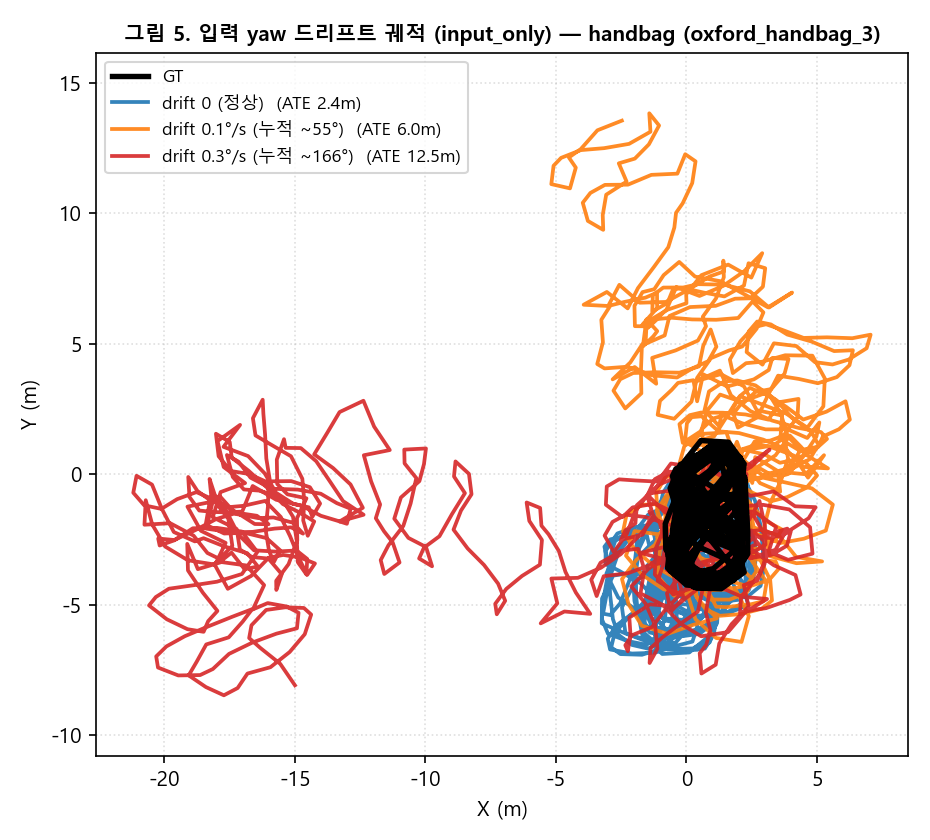
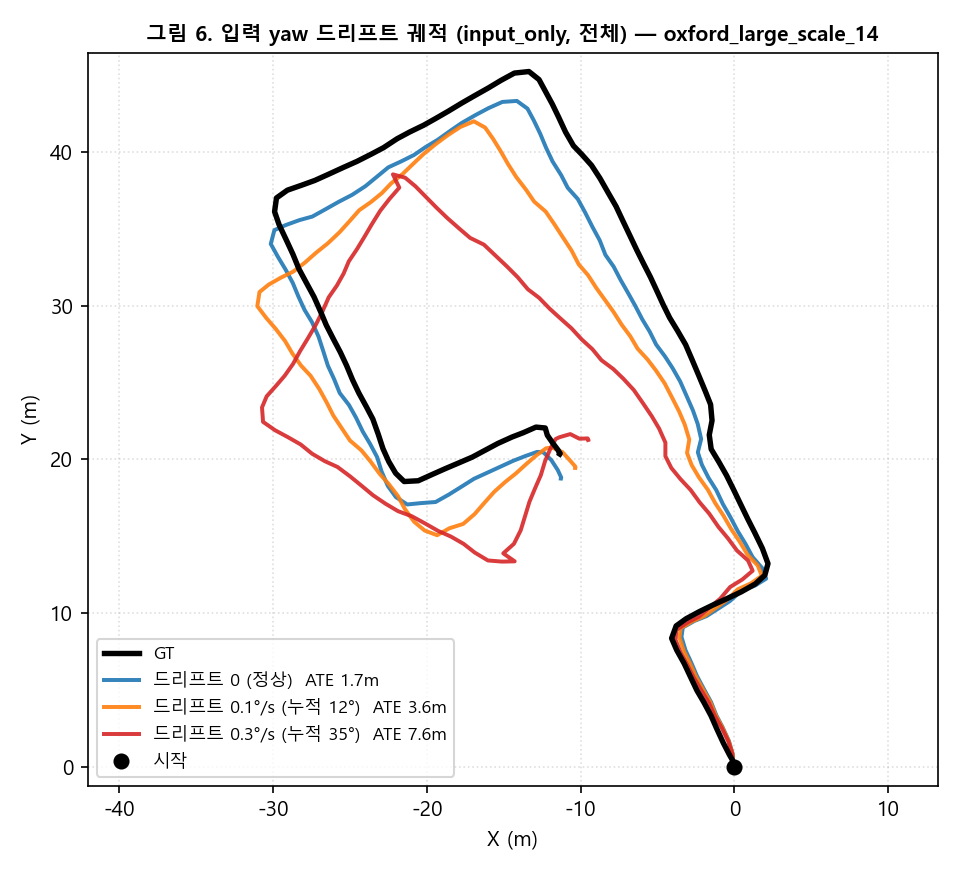
P83h: redesign fig6 drift trajectory — large_scale_14 open path (readable)
기존 handbag_3(루프형 GT 블롭)+내부제목 오류(그림5) -> large_scale_14 개방경로,
제목 그림6 교정. input_only full: ATE 1.7->3.6->7.6m, 누적 12/35deg.
(첫30초 한사이클은 input drift 효과 소멸 확인 -> 전체+개방경로로 해결)

diff --git a/doc/paper_fig/oxiod_drift_traj_fig6.py b/doc/paper_fig/oxiod_drift_traj_fig6.py
@@ -1,0 +1,98 @@
+# -*- coding: utf-8 -*-
+"""그림 6 재설계 — 입력 yaw 드리프트 궤적을 §4.4/그림7 스타일(첫 N초·한 사이클)로.
+기존(handbag_3 전체, GT 블롭)이 루프형이라 가독성 낮음 → handheld_1 첫 30초(한 사이클)로.
+input_only(출력은 정답 yaw0): 입력 정렬 yaw에만 드리프트 → 예측 방향 붕괴가 궤적으로 가시화.
+
+실행:
+  KMP_DUPLICATE_LIB_OK=TRUE python src/Network/oxiod_drift_traj_fig6.py \
+    --data_dir D:/EKF_DATASET/TLIO_Oxford_Dataset --model_dir src/Network/out_classifier2 \
+    --seq oxford_handheld_1 --sec 30 --rates 0,2,5
+"""
+from __future__ import annotations
+import argparse, sys
+from pathlib import Path
+import numpy as np, matplotlib
+matplotlib.use("Agg")
+import matplotlib.pyplot as plt
+from matplotlib import font_manager
+try:
+    sys.stdout.reconfigure(encoding="utf-8", errors="replace")  # type: ignore
+except Exception:
+    pass
+for fn in ("Malgun Gothic", "맑은 고딕", "Gulim"):
+    try:
+        font_manager.findfont(fn, fallback_to_default=False); plt.rcParams["font.family"] = fn; break
+    except Exception:
+        continue
+plt.rcParams["axes.unicode_minus"] = False
+sys.path.insert(0, str(Path(__file__).parent))
+from offline_eval import WINDOW_LEN, FS, load_oxiod, load_model, window_to_gravity_aligned, window_yaw0  # type: ignore
+from oxiod_yaw_drift_ablation import make_drifted_quat  # type: ignore
+LOG = Path(r"D:\mobile\imu_android\logs")
+
+
+def dr_seg(net, data, mean, std, dr, S):
+    import torch
+    acc, gyr, quat, pos = data["acc"], data["gyr"], data["quat"], data["pos"]
+    quat_in = make_drifted_quat(quat, dr)        # 입력만 드리프트
+    T = len(acc); starts = list(range(0, T - WINDOW_LEN, WINDOW_LEN))
+    pred = [np.zeros(2)]
+    with torch.no_grad():
+        for s in starts:
+            e = s + WINDOW_LEN
+            imu = window_to_gravity_aligned(acc, gyr, quat_in, s, e, frame="ga")
+            x = torch.from_numpy(((imu - mean) / std).T.copy()).float().unsqueeze(0)
+            y, _c, _l = net(x); d = y[0].numpy()
+            y0 = window_yaw0(quat, s)             # 출력은 정답 yaw0
+            c, sn = np.cos(y0), np.sin(y0)
+            pred.append(pred[-1] + np.array([c * d[0] - sn * d[1], sn * d[0] + c * d[1]]))
+    pred = np.array(pred)
+    idx = [0] + [s + WINDOW_LEN for s in starts]
+    gt = pos[idx, :2] - pos[0, :2]
+    keep = [k for k, ix in enumerate(idx) if ix <= S]
+    pred, gt = pred[keep], gt[keep]
+    n = min(len(pred), len(gt))
+    ate = float(np.sqrt(np.mean(np.linalg.norm(pred[:n] - gt[:n], axis=1) ** 2)))
+    return pred[:n], gt[:n], ate
+
+
+def main():
+    ap = argparse.ArgumentParser()
+    ap.add_argument("--data_dir", default=r"D:/EKF_DATASET/TLIO_Oxford_Dataset")
+    ap.add_argument("--model_dir", default="src/Network/out_classifier2")
+    ap.add_argument("--seq", default="oxford_handheld_1")
+    ap.add_argument("--sec", type=float, default=30.0)
+    ap.add_argument("--rates", default="0,2,5")
+    args = ap.parse_args()
+    print("[1] 모델 로드"); net, _p, mean, std = load_model(args.model_dir)
+    data = load_oxiod(Path(args.data_dir) / args.seq / "imu0_resampled.npy")
+    dur = len(data["acc"]) / FS
+    eff = min(args.sec, dur)
+    S = int(eff * FS)
+    rates = [float(x) for x in args.rates.split(",")]
+    cols = ["#1f77b4", "#ff7f0e", "#d62728", "#9467bd"]
+    seg = "전체" if args.sec >= dur else f"첫 {eff:.0f}초"
+    print(f"[2] {args.seq} {seg} (dur {dur:.0f}s), rates {rates}")
+
+    fig, ax = plt.subplots(1, 1, figsize=(6.4, 5.8))
+    gt_drawn = False
+    for k, dr in enumerate(rates):
+        pred, gt, ate = dr_seg(net, data, mean, std, dr, S)
+        if not gt_drawn:
+            ax.plot(gt[:, 0], gt[:, 1], "-", color="black", lw=2.6, label="GT", zorder=5); gt_drawn = True
+        cum = dr * eff
+        lab = "드리프트 0 (정상)" if dr == 0 else f"드리프트 {dr:g}°/s (누적 {cum:.0f}°)"
+        ax.plot(pred[:, 0], pred[:, 1], "-", color=cols[k % len(cols)], lw=1.9, alpha=0.9,
+                label=f"{lab}  ATE {ate:.1f}m")
+        print(f"    dr {dr:g}: 누적 {cum:.0f}°, ATE {ate:.2f} m")
+    ax.scatter([0], [0], c="k", s=45, zorder=6, label="시작")
+    ax.set_aspect("equal", "datalim"); ax.legend(fontsize=8.5, loc="best"); ax.grid(ls=":", alpha=0.4)
+    ax.set_xlabel("X (m)"); ax.set_ylabel("Y (m)")
+    ax.set_title(f"그림 6. 입력 yaw 드리프트 궤적 (input_only, {seg}) — {args.seq}", fontsize=10, fontweight="bold")
+    fig.tight_layout()
+    out = LOG / "fig_4_6_2_traj.png"; fig.savefig(out, dpi=150)
+    print(f"[OK] {out}")
+
+
+if __name__ == "__main__":
+    main()

diff --git a/src/Network/oxiod_drift_traj_fig6.py b/src/Network/oxiod_drift_traj_fig6.py
@@ -1,0 +1,98 @@
+# -*- coding: utf-8 -*-
+"""그림 6 재설계 — 입력 yaw 드리프트 궤적을 §4.4/그림7 스타일(첫 N초·한 사이클)로.
+기존(handbag_3 전체, GT 블롭)이 루프형이라 가독성 낮음 → handheld_1 첫 30초(한 사이클)로.
+input_only(출력은 정답 yaw0): 입력 정렬 yaw에만 드리프트 → 예측 방향 붕괴가 궤적으로 가시화.
+
+실행:
+  KMP_DUPLICATE_LIB_OK=TRUE python src/Network/oxiod_drift_traj_fig6.py \
+    --data_dir D:/EKF_DATASET/TLIO_Oxford_Dataset --model_dir src/Network/out_classifier2 \
+    --seq oxford_handheld_1 --sec 30 --rates 0,2,5
+"""
+from __future__ import annotations
+import argparse, sys
+from pathlib import Path
+import numpy as np, matplotlib
+matplotlib.use("Agg")
+import matplotlib.pyplot as plt
+from matplotlib import font_manager
+try:
+    sys.stdout.reconfigure(encoding="utf-8", errors="replace")  # type: ignore
+except Exception:
+    pass
+for fn in ("Malgun Gothic", "맑은 고딕", "Gulim"):
+    try:
+        font_manager.findfont(fn, fallback_to_default=False); plt.rcParams["font.family"] = fn; break
+    except Exception:
+        continue
+plt.rcParams["axes.unicode_minus"] = False
+sys.path.insert(0, str(Path(__file__).parent))
+from offline_eval import WINDOW_LEN, FS, load_oxiod, load_model, window_to_gravity_aligned, window_yaw0  # type: ignore
+from oxiod_yaw_drift_ablation import make_drifted_quat  # type: ignore
+LOG = Path(r"D:\mobile\imu_android\logs")
+
+
+def dr_seg(net, data, mean, std, dr, S):
+    import torch
+    acc, gyr, quat, pos = data["acc"], data["gyr"], data["quat"], data["pos"]
+    quat_in = make_drifted_quat(quat, dr)        # 입력만 드리프트
+    T = len(acc); starts = list(range(0, T - WINDOW_LEN, WINDOW_LEN))
+    pred = [np.zeros(2)]
+    with torch.no_grad():
+        for s in starts:
+            e = s + WINDOW_LEN
+            imu = window_to_gravity_aligned(acc, gyr, quat_in, s, e, frame="ga")
+            x = torch.from_numpy(((imu - mean) / std).T.copy()).float().unsqueeze(0)
+            y, _c, _l = net(x); d = y[0].numpy()
+            y0 = window_yaw0(quat, s)             # 출력은 정답 yaw0
+            c, sn = np.cos(y0), np.sin(y0)
+            pred.append(pred[-1] + np.array([c * d[0] - sn * d[1], sn * d[0] + c * d[1]]))
+    pred = np.array(pred)
+    idx = [0] + [s + WINDOW_LEN for s in starts]
+    gt = pos[idx, :2] - pos[0, :2]
+    keep = [k for k, ix in enumerate(idx) if ix <= S]
+    pred, gt = pred[keep], gt[keep]
+    n = min(len(pred), len(gt))
+    ate = float(np.sqrt(np.mean(np.linalg.norm(pred[:n] - gt[:n], axis=1) ** 2)))
+    return pred[:n], gt[:n], ate
+
+
+def main():
+    ap = argparse.ArgumentParser()
+    ap.add_argument("--data_dir", default=r"D:/EKF_DATASET/TLIO_Oxford_Dataset")
+    ap.add_argument("--model_dir", default="src/Network/out_classifier2")
+    ap.add_argument("--seq", default="oxford_handheld_1")
+    ap.add_argument("--sec", type=float, default=30.0)
+    ap.add_argument("--rates", default="0,2,5")
+    args = ap.parse_args()
+    print("[1] 모델 로드"); net, _p, mean, std = load_model(args.model_dir)
+    data = load_oxiod(Path(args.data_dir) / args.seq / "imu0_resampled.npy")
+    dur = len(data["acc"]) / FS
+    eff = min(args.sec, dur)
+    S = int(eff * FS)
+    rates = [float(x) for x in args.rates.split(",")]
+    cols = ["#1f77b4", "#ff7f0e", "#d62728", "#9467bd"]
+    seg = "전체" if args.sec >= dur else f"첫 {eff:.0f}초"
+    print(f"[2] {args.seq} {seg} (dur {dur:.0f}s), rates {rates}")
+
+    fig, ax = plt.subplots(1, 1, figsize=(6.4, 5.8))
+    gt_drawn = False
+    for k, dr in enumerate(rates):
+        pred, gt, ate = dr_seg(net, data, mean, std, dr, S)
+        if not gt_drawn:
+            ax.plot(gt[:, 0], gt[:, 1], "-", color="black", lw=2.6, label="GT", zorder=5); gt_drawn = True
+        cum = dr * eff
+        lab = "드리프트 0 (정상)" if dr == 0 else f"드리프트 {dr:g}°/s (누적 {cum:.0f}°)"
+        ax.plot(pred[:, 0], pred[:, 1], "-", color=cols[k % len(cols)], lw=1.9, alpha=0.9,
+                label=f"{lab}  ATE {ate:.1f}m")
+        print(f"    dr {dr:g}: 누적 {cum:.0f}°, ATE {ate:.2f} m")
+    ax.scatter([0], [0], c="k", s=45, zorder=6, label="시작")
+    ax.set_aspect("equal", "datalim"); ax.legend(fontsize=8.5, loc="best"); ax.grid(ls=":", alpha=0.4)
+    ax.set_xlabel("X (m)"); ax.set_ylabel("Y (m)")
+    ax.set_title(f"그림 6. 입력 yaw 드리프트 궤적 (input_only, {seg}) — {args.seq}", fontsize=10, fontweight="bold")
+    fig.tight_layout()
+    out = LOG / "fig_4_6_2_traj.png"; fig.savefig(out, dpi=150)
+    print(f"[OK] {out}")
+
+
+if __name__ == "__main__":
+    main()
